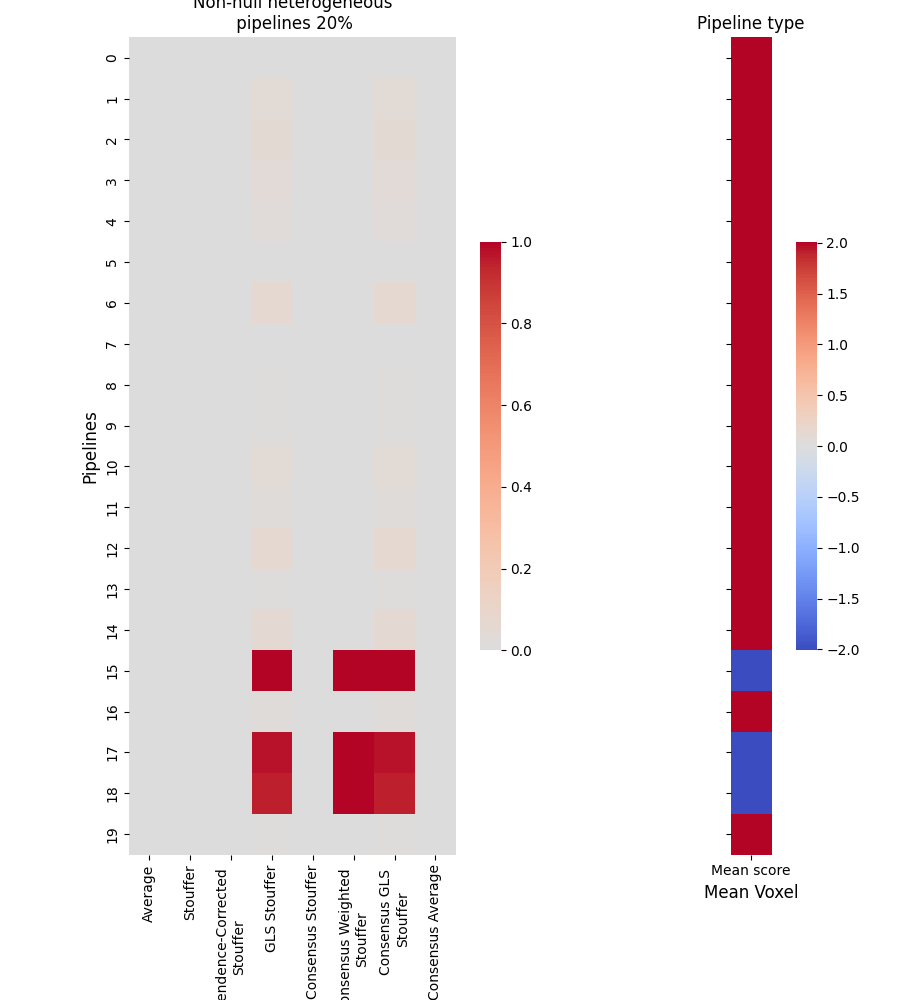
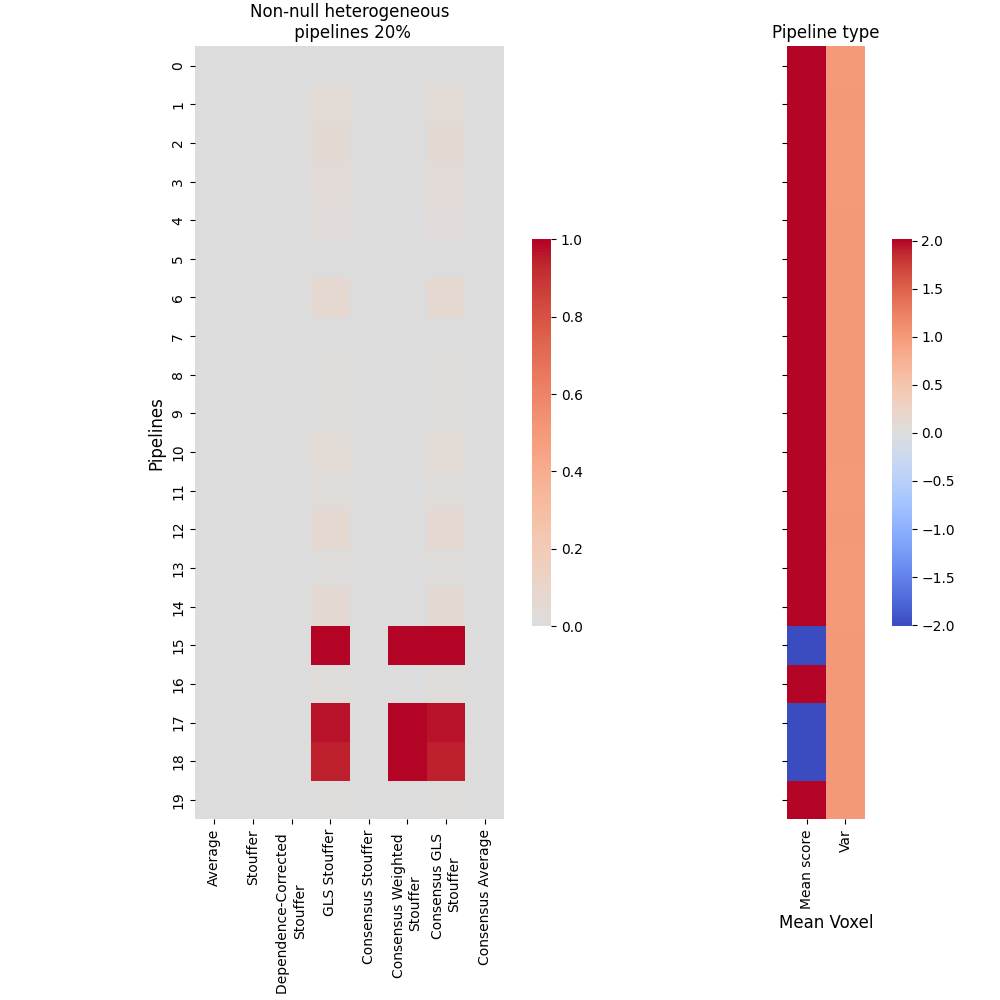
add vocela variance in weights visualisation

Changed region(s): [[0.0933, 0.0, 0.5289, 1.0], [0.7778, 0.0, 0.9644, 0.93], [0.5289, 0.217, 0.5911, 0.651]]

diff --git a/scripts/utils.py b/scripts/utils.py
@@ -203,11 +203,11 @@ def plot_weights(simulation, weights):
      print("Plotting weights for each MA model and pipeline")
      plt.close('all')
      f, ax = plt.subplots(1, 2, figsize=(len(weights.columns), 10), sharey=True) 
-     seaborn.heatmap(weights[weights.columns[:-1]], center=0, vmin=0, vmax=1, cmap='coolwarm', square=True, ax=ax[0],cbar_kws={'shrink': 0.5})
+     seaborn.heatmap(weights[weights.columns[:-2]], center=0, vmin=0, vmax=1, cmap='coolwarm', square=True, ax=ax[0],cbar_kws={'shrink': 0.5})
      ax[0].title.set_text("Weights for each MA model and pipeline for simulation \n{}".format(simulation))
      ax[0].set_xlabel("MA models", fontsize = 12)
      ax[0].set_ylabel("Pipelines", fontsize = 12)
-     seaborn.heatmap(weights[weights.columns[-1:]], center=0, cmap='coolwarm', square=True, ax=ax[1],cbar_kws={'shrink': 0.5})
+     seaborn.heatmap(weights[weights.columns[-2:]], center=0, cmap='coolwarm', square=True, ax=ax[1],cbar_kws={'shrink': 0.5})
      ax[1].title.set_text("Pipeline type")
      ax[1].set_xlabel("Mean Voxel", fontsize = 12)
      plt.tight_layout()

diff --git a/scripts/run_SDMA_in_generated_data.py b/scripts/run_SDMA_in_generated_data.py
@@ -52,6 +52,7 @@ for simulation in generated_data.keys():
         for MA_model in MA_outputs.keys():
             df_weights[MA_model] = MA_outputs[MA_model]['weights']
     df_weights["Mean score"] = contrast_estimates.mean(axis=1)
+    df_weights["Var"] = contrast_estimates.std(axis=1)
     utils.plot_weights(simulation, df_weights)
     ## DEBUGGING
     # print(simulation)
